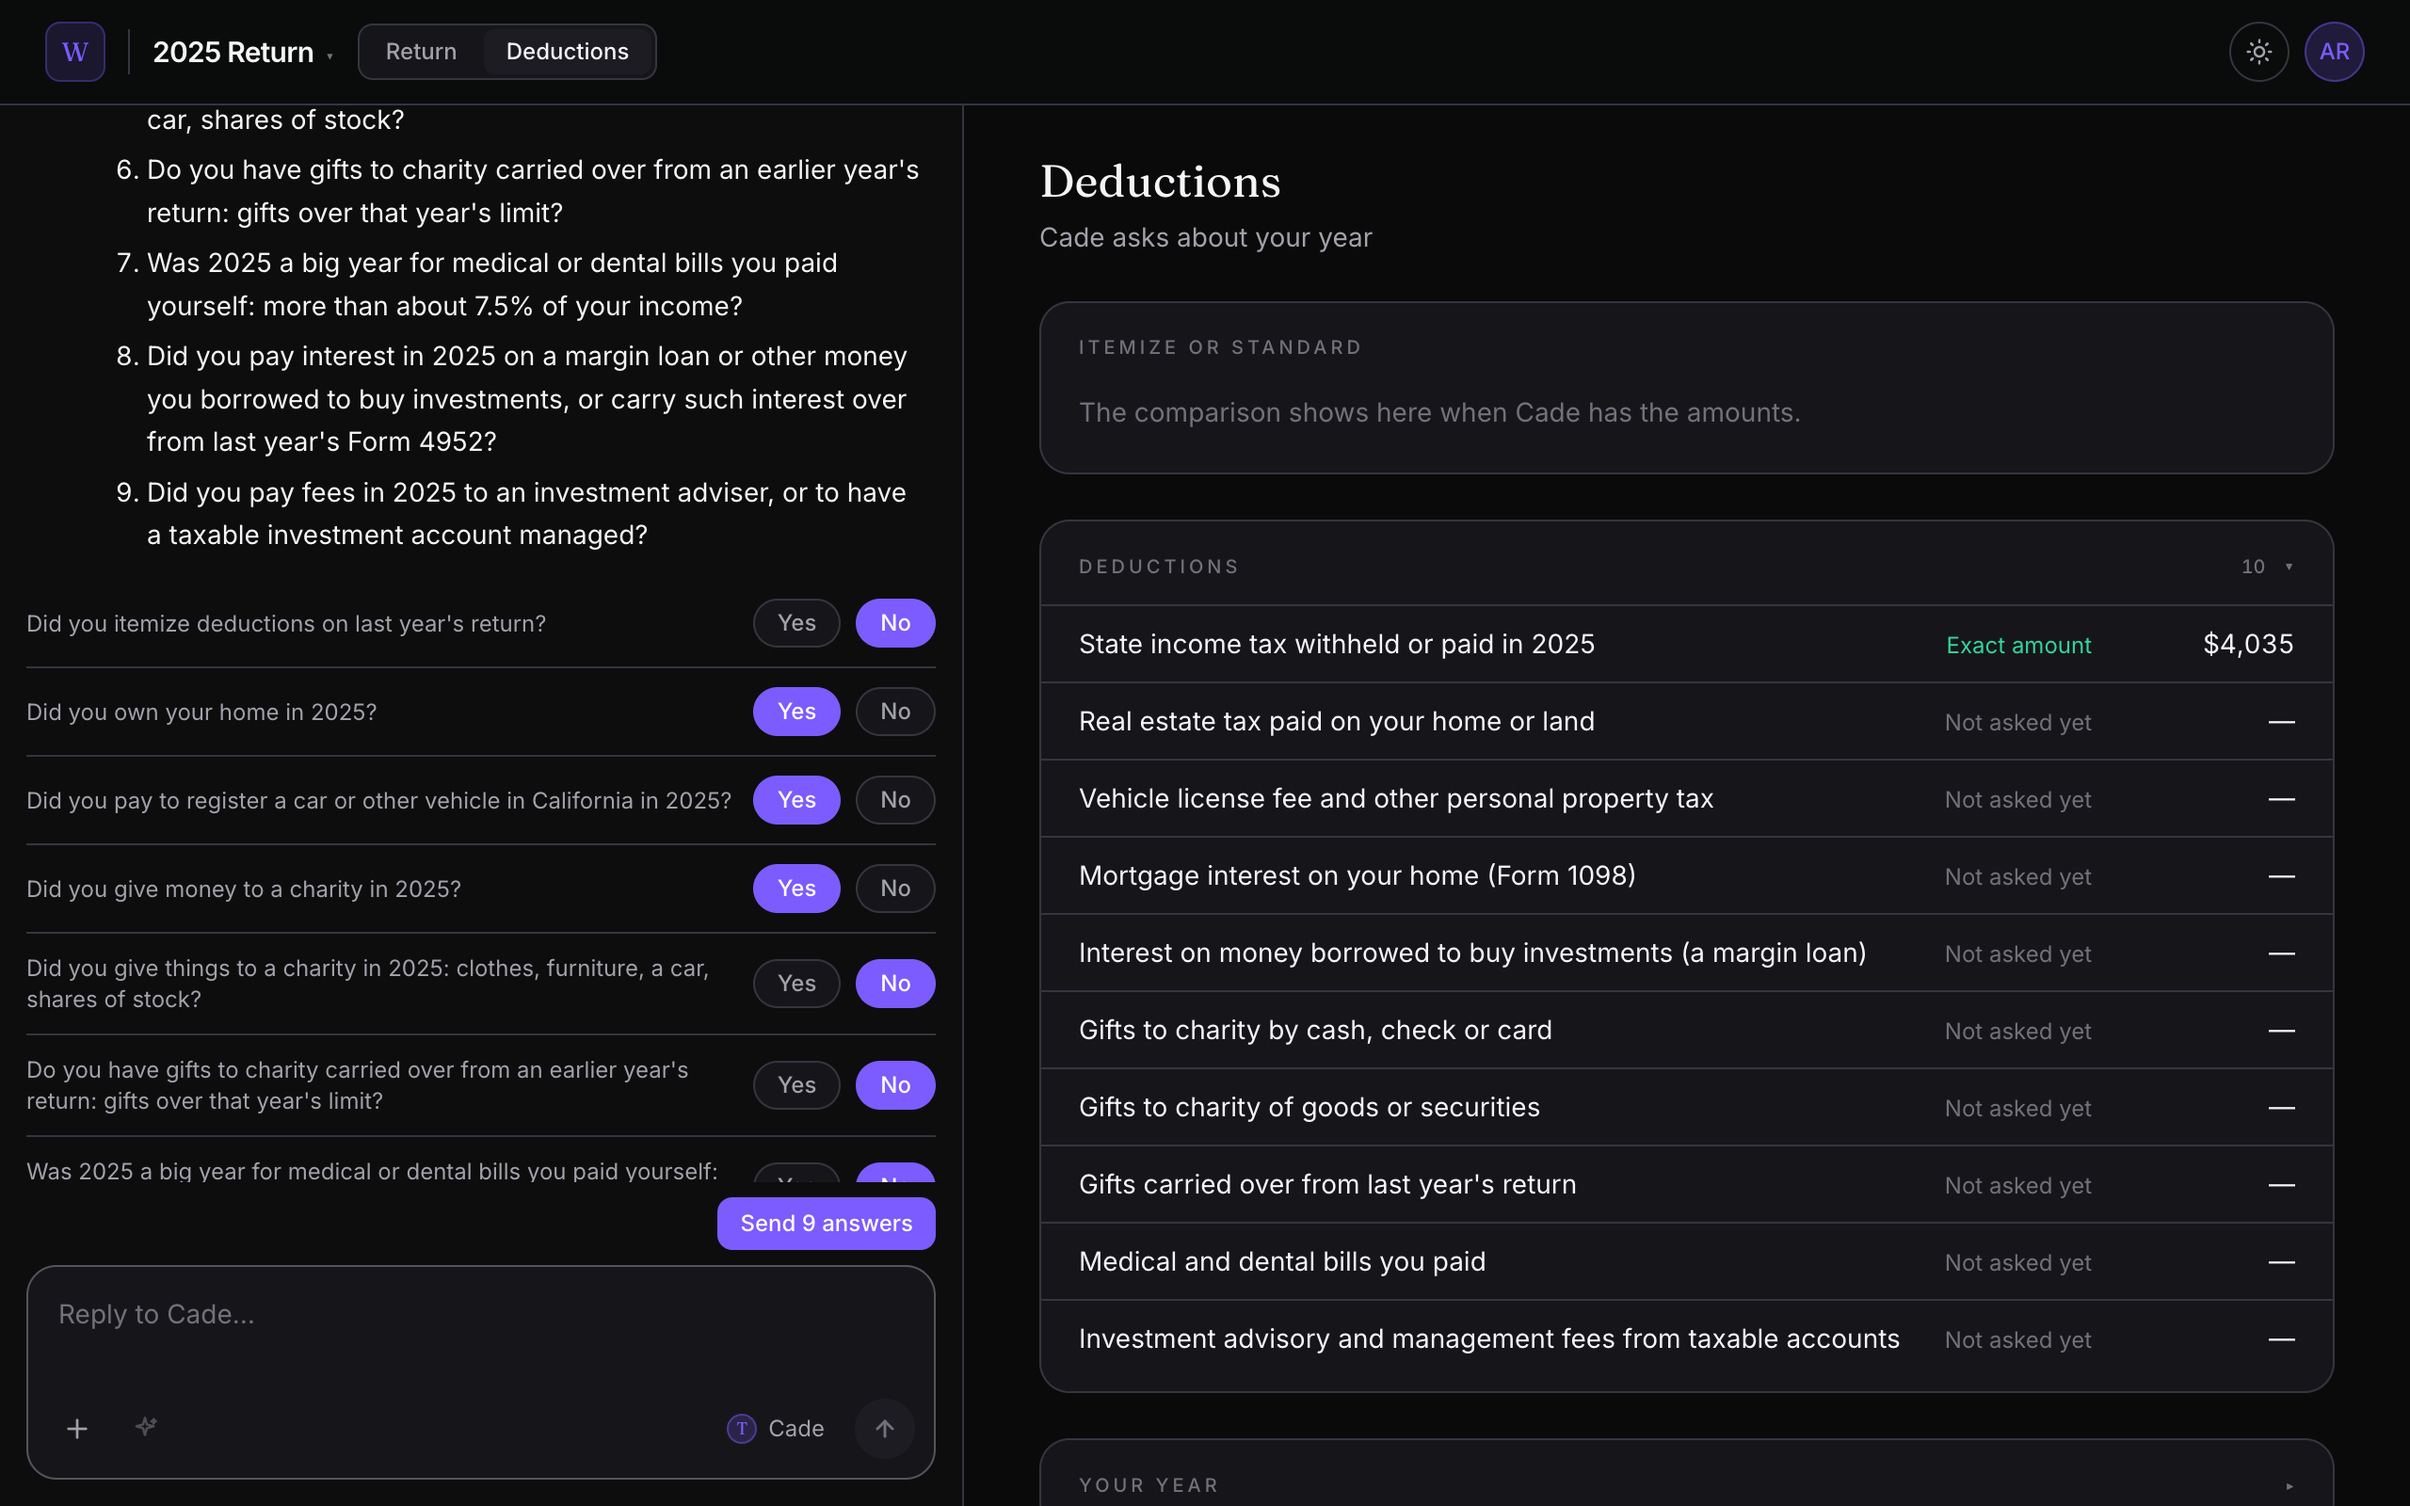
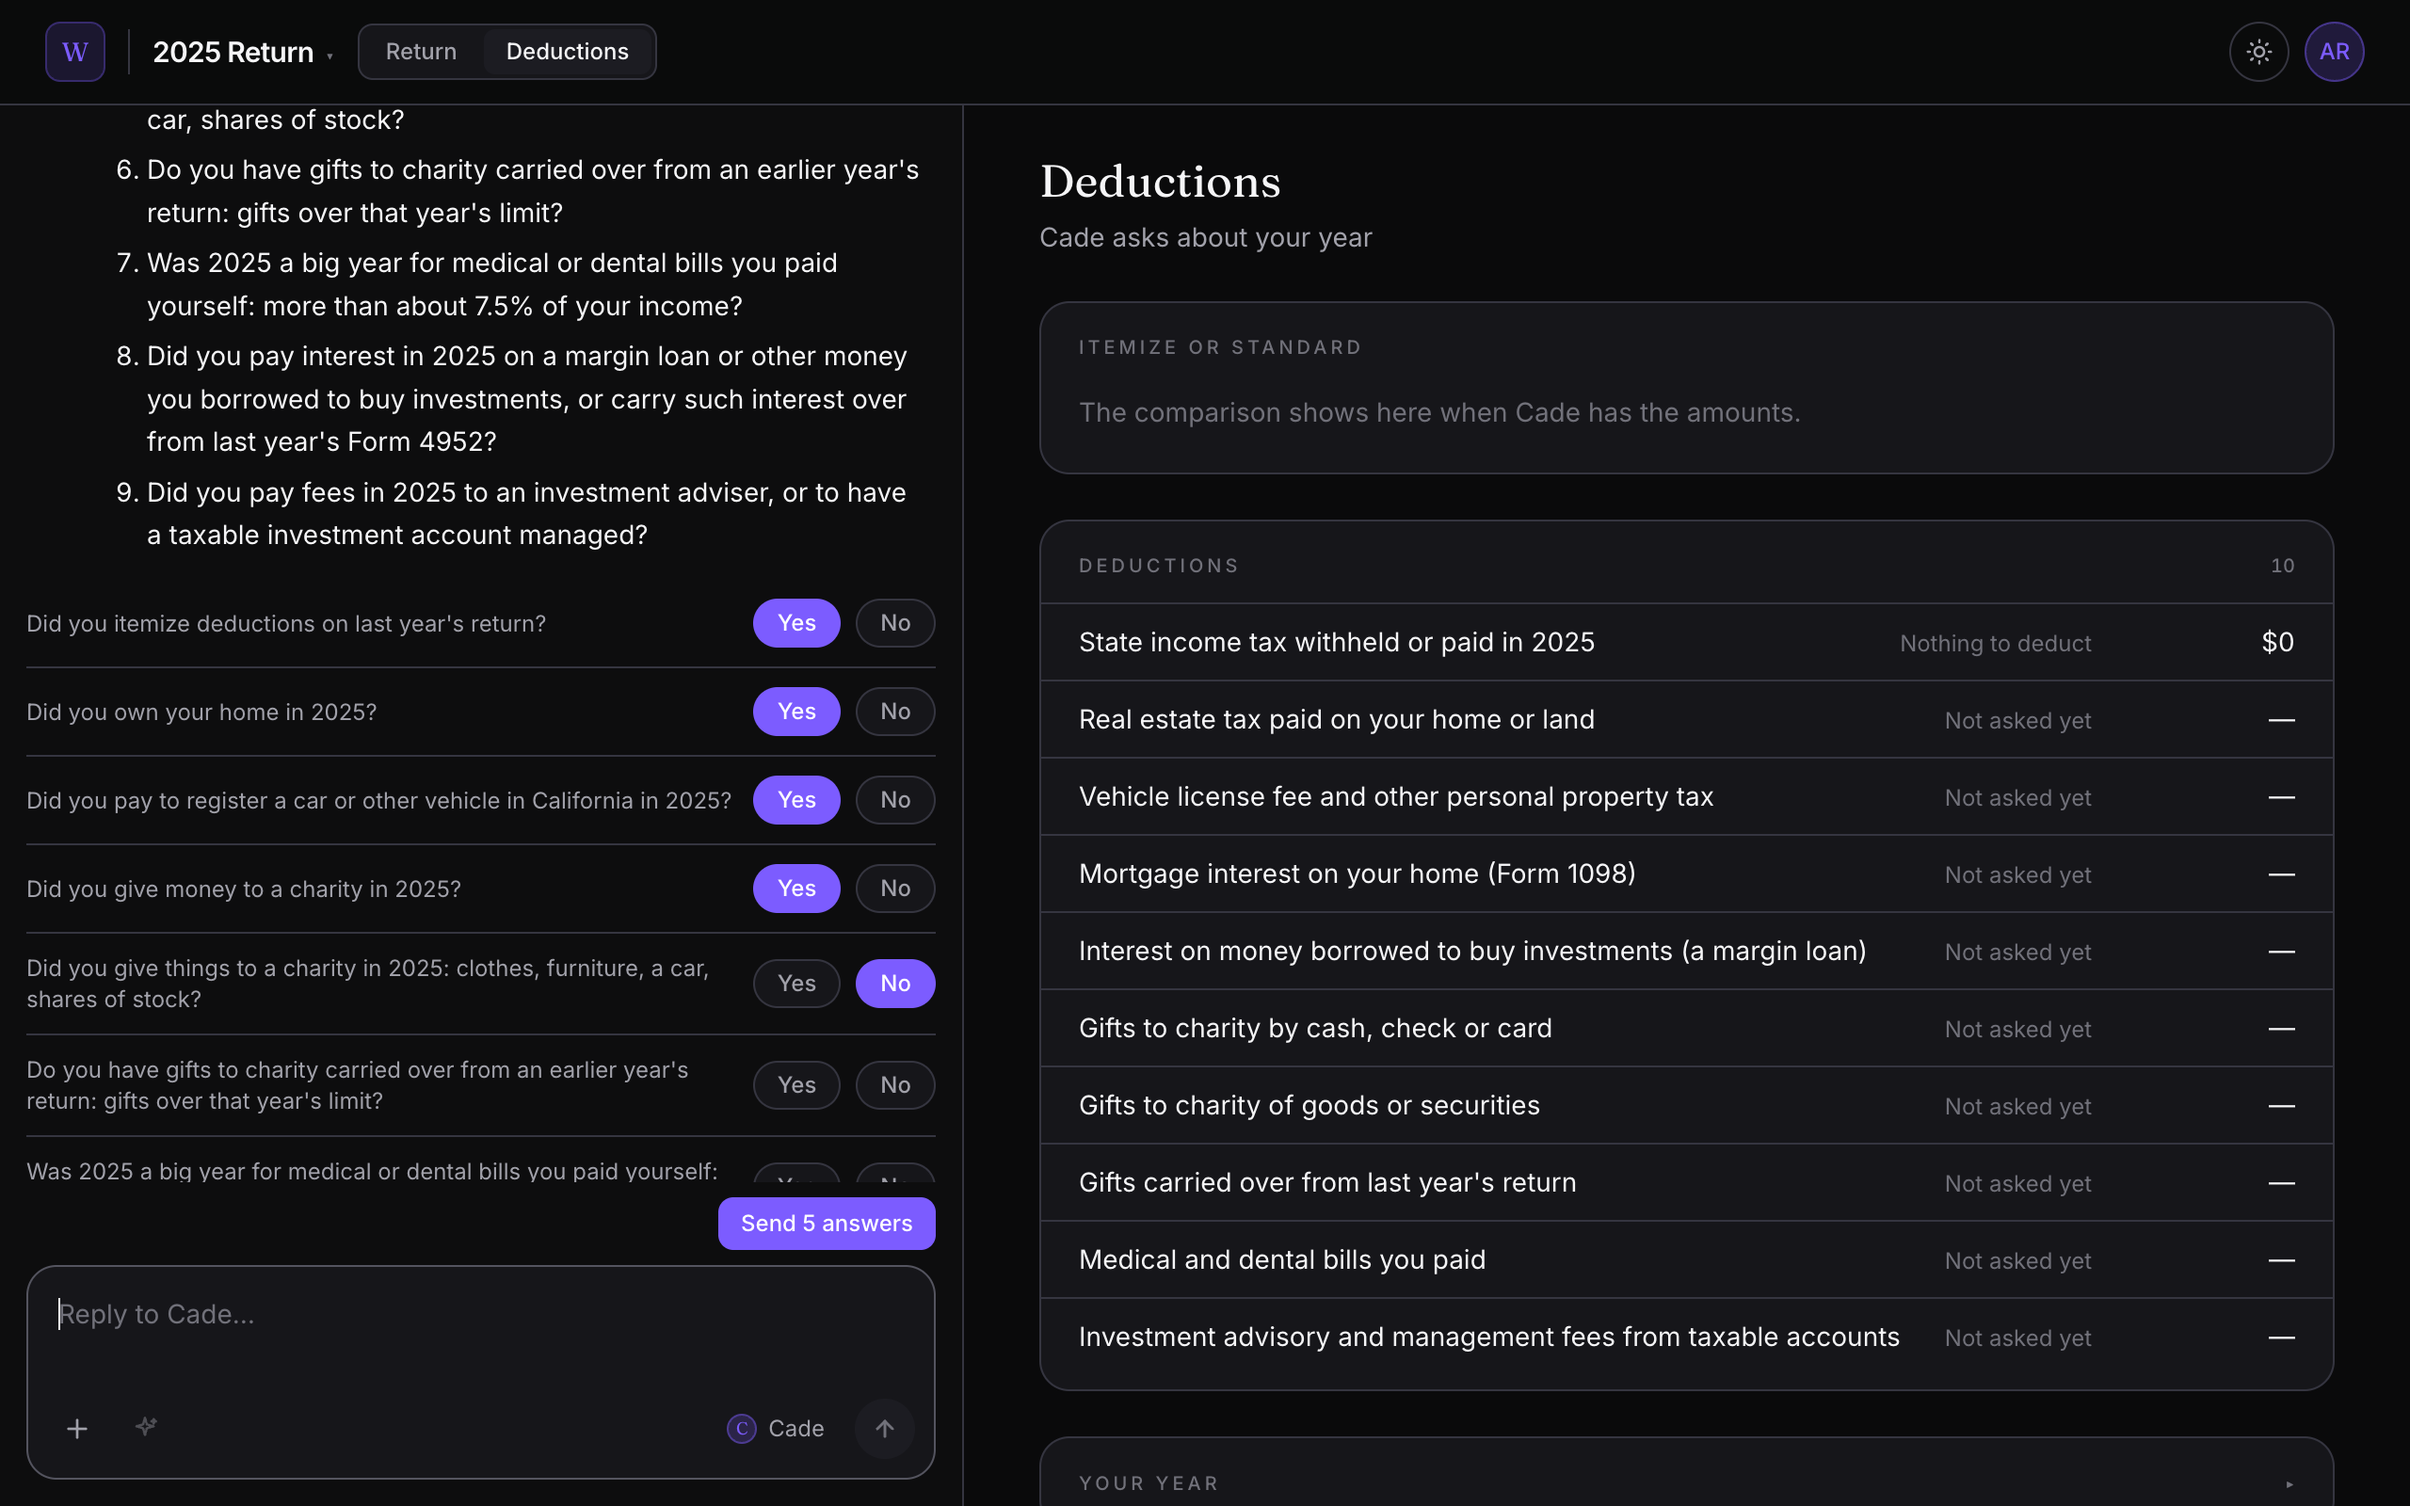
Web: an answer to tap leads back to the return; a result on a rough amount does not look final
- Two answers to tap are links and send nothing to Cade: "Go to the
  return" while the comparison waits for the return's income and filing
  status, and "Back to the return" when the conversation is done.
- While the comparison uses a rough amount, its last row reads "Result
  so far" in the warning color. With exact amounts it reads "Result".
- The Deductions list offers its short form only when the short form has
  an item. Before, the button showed while every deduction was unasked,
  and a tap showed an empty list.
- Cade's avatar shows "C". It still showed the letter of an earlier name.
- The two routes of a return have one home, in lib/chatSession.ts.
- New screenshots.

diff --git a/web/components/DeductionReplies.tsx b/web/components/DeductionReplies.tsx
@@ -7,18 +7,28 @@
  */
 
 import { useAppShell } from "@/components/AppShell";
+import { returnHref } from "@/lib/chatSession";
 import { cn } from "@/lib/cn";
 import { lifeAnswersMessage, type NextStep } from "@/lib/deductions";
+import Link from "next/link";
 import { useState } from "react";
 
 type LifeStep = Extract<NextStep, { step: "ask_life_questions" }>;
 type OpenDoorStep = Extract<NextStep, { step: "ask_anything_else" }>;
 
 export function DeductionReplies() {
-  const { state, messages, cadeBusy, sendChat } = useAppShell();
+  const { state, messages, cadeBusy, sendChat, activeReturn } = useAppShell();
   const next = state?.deductions.next;
-  if (!next || cadeBusy || next.step === "closed") return null;
+  if (!next || cadeBusy) return null;
   const send = (text: string) => void sendChat({ text });
+  const toReturn = (label: string) => (
+    <ReplyRow>
+      <ReplyLink label={label} href={returnHref(activeReturn.id)} />
+    </ReplyRow>
+  );
+
+  /* The conversation is done: the next action is on the return. */
+  if (next.step === "closed") return toReturn("Back to the return");
 
   /* Cade has asked nothing yet: the one answer is to start. */
   if (messages.length === 0) {
@@ -32,6 +42,8 @@ export function DeductionReplies() {
     return <LifeQuestionReplies questions={next.questions} send={send} />;
   }
   if (next.step === "ask_anything_else") return <OpenDoorReplies step={next} send={send} />;
+  /* The comparison waits for answers that the return's conversation asks for. */
+  if (next.step === "wait_for_return") return toReturn("Go to the return");
   return null;
 }
 
@@ -117,6 +129,21 @@ function ReplyRow({ children }: { children: React.ReactNode }) {
   return <div className="flex shrink-0 flex-wrap gap-1.5 px-3.5 pb-2">{children}</div>;
 }
 
+type ReplyTone = "plain" | "strong" | "picked";
+
+const REPLY_TONES: Record<ReplyTone, string> = {
+  plain:
+    "border-border-subtle bg-bg-panel text-ink-secondary hover:border-border-strong hover:text-ink-primary",
+  strong: "border-accent/40 bg-accent/15 text-accent hover:bg-accent/25",
+  picked: "border-accent bg-accent text-white",
+};
+
+const replyClasses = (tone: ReplyTone): string =>
+  cn(
+    "shrink-0 rounded-full border px-3 py-1 text-xs font-medium transition-colors",
+    REPLY_TONES[tone],
+  );
+
 function ReplyButton({
   label,
   onClick,
@@ -134,16 +161,18 @@ function ReplyButton({
       type="button"
       onClick={onClick}
       aria-pressed={picked}
-      className={cn(
-        "shrink-0 rounded-full border px-3 py-1 text-xs font-medium transition-colors",
-        picked
-          ? "border-accent bg-accent text-white"
-          : strong
-            ? "border-accent/40 bg-accent/15 text-accent hover:bg-accent/25"
-            : "border-border-subtle bg-bg-panel text-ink-secondary hover:border-border-strong hover:text-ink-primary",
-      )}
+      className={replyClasses(picked ? "picked" : strong ? "strong" : "plain")}
     >
       {label}
     </button>
+  );
+}
+
+/* A reply that goes to another page and sends nothing to Cade. */
+function ReplyLink({ label, href }: { label: string; href: string }) {
+  return (
+    <Link href={href} className={replyClasses("strong")}>
+      {label}
+    </Link>
   );
 }

diff --git a/web/app/(app)/r/[returnId]/deductions/components/SummaryCards.tsx b/web/app/(app)/r/[returnId]/deductions/components/SummaryCards.tsx
@@ -73,12 +73,16 @@ const RESULT_LABELS: Record<JurisdictionComparison["recommendation"], string> = 
 
 type ComparisonRow = { label: string; value: (side: JurisdictionComparison) => string };
 
-const COMPARISON_ROWS: ComparisonRow[] = [
+const AMOUNT_ROWS: ComparisonRow[] = [
   { label: "Itemized deductions", value: (side) => dollars(side.itemized) },
   { label: "Standard deduction", value: (side) => dollars(side.standard) },
   { label: "Itemized less standard", value: (side) => signedDollars(side.margin) },
-  { label: "Result", value: (side) => RESULT_LABELS[side.recommendation] },
 ];
+
+const RESULT_ROW: ComparisonRow = {
+  label: "Result",
+  value: (side) => RESULT_LABELS[side.recommendation],
+};
 
 export function ComparisonCard({ view }: { view: DeductionsView }) {
   const { federal, ca } = view.comparison;
@@ -107,11 +111,8 @@ export function ComparisonCard({ view }: { view: DeductionsView }) {
           </tr>
         </thead>
         <tbody>
-          {COMPARISON_ROWS.map((row) => (
-            <tr
-              key={row.label}
-              className="border-t border-border-subtle last:font-medium last:text-ink-primary"
-            >
+          {AMOUNT_ROWS.map((row) => (
+            <tr key={row.label} className="border-t border-border-subtle">
               <th className="py-2.5 pr-2 pl-5 text-left font-normal text-ink-secondary">
                 {row.label}
               </th>
@@ -119,6 +120,19 @@ export function ComparisonCard({ view }: { view: DeductionsView }) {
               <td className="py-2.5 pr-5 pl-2 text-right tabular-nums">{cell(ca, row)}</td>
             </tr>
           ))}
+          {/* A result that rests on a rough amount can change: it does not look final. */}
+          <tr
+            className={cn(
+              "border-t border-border-subtle font-medium",
+              anyRough ? "text-warn" : "text-ink-primary",
+            )}
+          >
+            <th className="py-2.5 pr-2 pl-5 text-left font-normal text-ink-secondary">
+              {anyRough ? "Result so far" : RESULT_ROW.label}
+            </th>
+            <td className="px-2 py-2.5 text-right">{cell(federal, RESULT_ROW)}</td>
+            <td className="py-2.5 pr-5 pl-2 text-right">{cell(ca, RESULT_ROW)}</td>
+          </tr>
         </tbody>
       </table>
       {anyRough && (
@@ -173,9 +187,10 @@ function ItemRow({ item }: { item: DeductionItem }) {
  */
 export function ItemsCard({ items, done }: { items: DeductionItem[]; done: boolean }) {
   const [picked, setPicked] = useState<boolean | null>(null);
-  const showAll = picked ?? !done;
   const kept = items.filter((item) => SHORT_LIST_STATUSES.has(item.status));
-  const canShorten = kept.length < items.length;
+  /* A short list with nothing in it shows nothing: then the list stays long. */
+  const canShorten = kept.length > 0 && kept.length < items.length;
+  const showAll = !canShorten || (picked ?? !done);
   const shown = showAll ? items : kept;
   return (
     <section className="card">

diff --git a/web/components/ChatPane.tsx b/web/components/ChatPane.tsx
@@ -189,7 +189,7 @@ function ChatComposer({ isPlaceholder }: { isPlaceholder: boolean }) {
 
           <div className="flex items-center gap-1.5 rounded-md px-2 py-1 text-[12px] text-ink-secondary">
             <span className="flex h-4 w-4 items-center justify-center rounded-full border border-accent/40 bg-accent/20">
-              <span className="font-serif text-[9px] leading-none text-accent">T</span>
+              <span className="font-serif text-[9px] leading-none text-accent">C</span>
             </span>
             <span>Cade</span>
           </div>
@@ -301,7 +301,7 @@ function TypingDots() {
 function CadeAvatar() {
   return (
     <div className="mt-0.5 flex h-7 w-7 shrink-0 items-center justify-center rounded-full border border-accent/30 bg-accent/15">
-      <span className="font-serif text-[11px] leading-none text-accent">T</span>
+      <span className="font-serif text-[11px] leading-none text-accent">C</span>
     </div>
   );
 }

diff --git a/web/components/ConversationSwitch.tsx b/web/components/ConversationSwitch.tsx
@@ -1,7 +1,7 @@
 "use client";
 
 import { useAppShell } from "@/components/AppShell";
-import { deductionsHref, type Conversation } from "@/lib/chatSession";
+import { deductionsHref, returnHref, type Conversation } from "@/lib/chatSession";
 import { cn } from "@/lib/cn";
 import Link from "next/link";
 
@@ -9,7 +9,7 @@ import Link from "next/link";
 export function ConversationSwitch({ className }: { className?: string }) {
   const { activeReturn, conversation } = useAppShell();
   const tabs: { id: Conversation["id"]; label: string; href: string }[] = [
-    { id: "return", label: "Return", href: `/r/${activeReturn.id}` },
+    { id: "return", label: "Return", href: returnHref(activeReturn.id) },
     { id: "deductions", label: "Deductions", href: deductionsHref(activeReturn.id) },
   ];
   return (

diff --git a/web/lib/chatSession.ts b/web/lib/chatSession.ts
@@ -31,4 +31,7 @@ export const DEDUCTIONS_CONVERSATION: Conversation = {
 /* The route segment under /r/[returnId] that shows the deductions conversation. */
 export const DEDUCTIONS_SEGMENT = "deductions";
 
-export const deductionsHref = (returnId: string): string => `/r/${returnId}/${DEDUCTIONS_SEGMENT}`;
+export const returnHref = (returnId: string): string => `/r/${returnId}`;
+
+export const deductionsHref = (returnId: string): string =>
+  `${returnHref(returnId)}/${DEDUCTIONS_SEGMENT}`;
